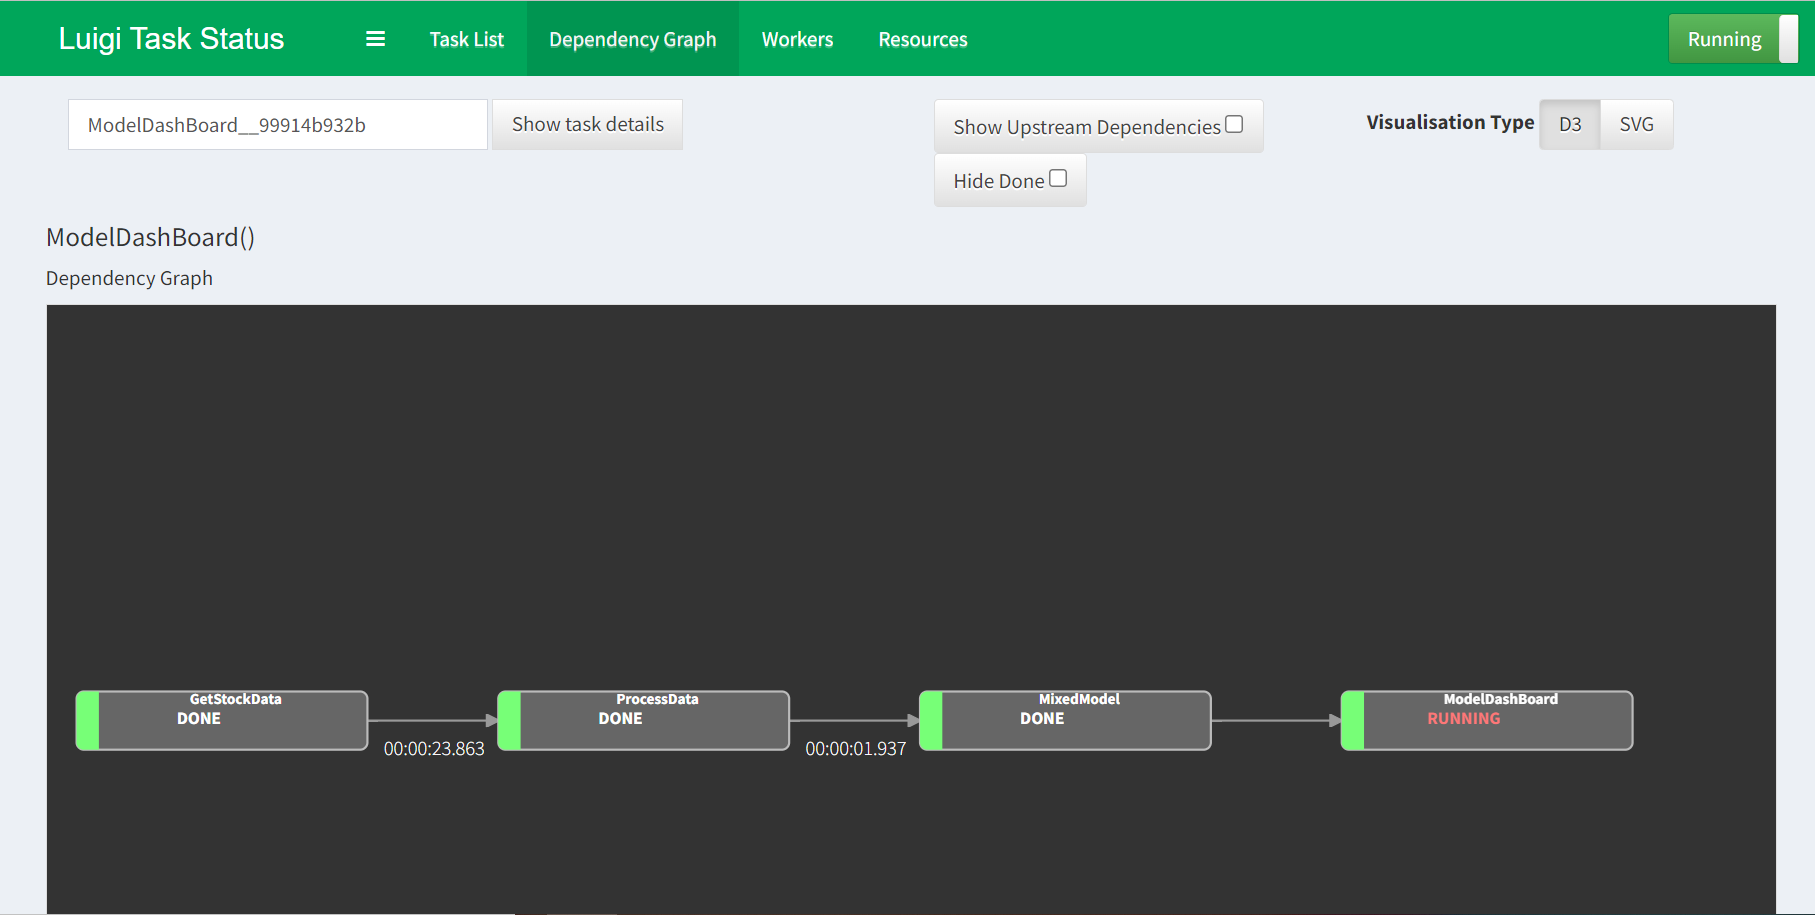
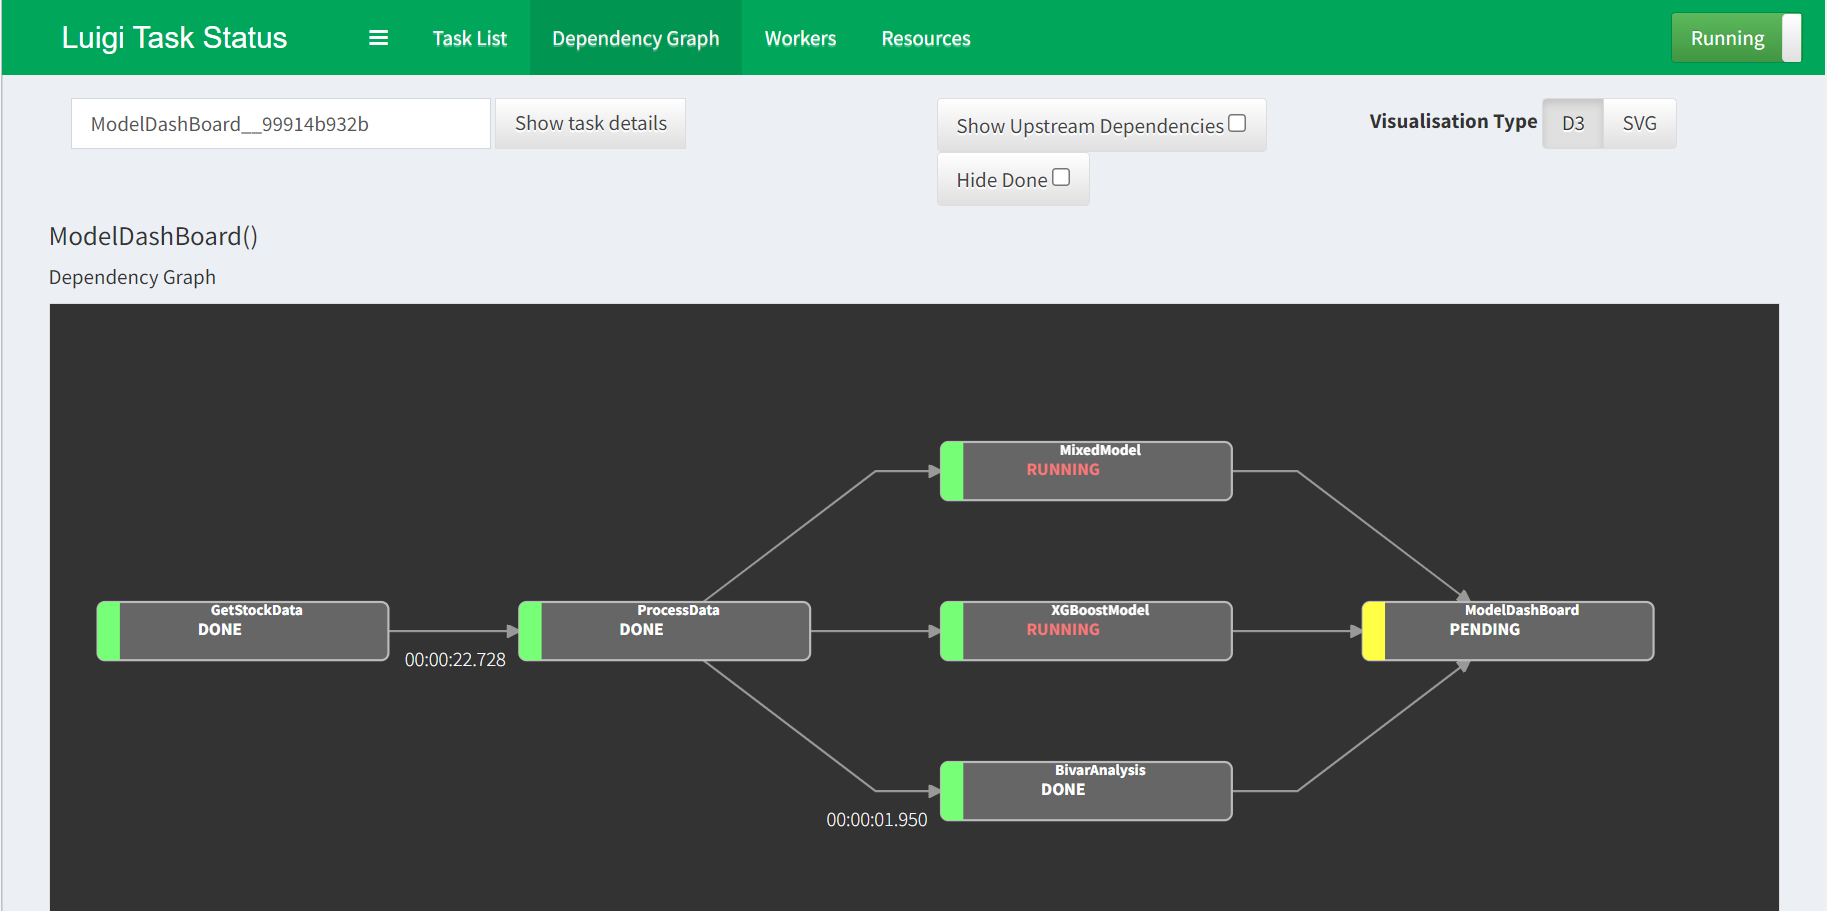
update

diff --git a/model_building/stock_xgboost.py b/model_building/stock_xgboost.py
@@ -17,133 +17,124 @@ from datetime import datetime
 import xgboost as xgb
 from sklearn.model_selection import RandomizedSearchCV
 from sklearn.inspection import plot_partial_dependence
-from os import (getcwd,chdir)
-
-basic_folder = getcwd()
-basic_folder = basic_folder.split("\\")
-basic_folder = "/".join(basic_folder[:3]+['OneDrive','stock_analysis'])
-chdir(basic_folder)
-
-stocks_df = pd.read_csv("data/stock_price.csv")
-
-one_hot = pd.get_dummies(stocks_df[['MACD_ind', "RSI_ind", 'mfi_ind', "symbol"]], 
-                         drop_first=True)
-stocks_df = stocks_df.join(one_hot)
-
-stocks_df["datetime"] = pd.to_datetime(stocks_df['datetime']).dt.date
-
-df_train = stocks_df[(stocks_df['datetime'] < 
-                      datetime.strptime('2021-3-31', "%Y-%m-%d").date())]
-df_val = stocks_df[(stocks_df['datetime'] >= 
-                    datetime.strptime('2021-3-31', "%Y-%m-%d").date())]
-
-df_train.shape
-# #### XGBoost
-# - One hot encode
-# - Split to train and validation, then go to XGBoost matrix
-# - Output the variable importance
-# - Plot partial dependence
-# - SHAP
-
-features = ['ma13', 'ma60', 'ma200', 'RSI', 'MACD', 'MACD_ewm9', 'MACD_diff', 
-            'average_13_60_down', 
-            "MACD_ind_MACD_2", "MACD_ind_MACD_3", "MACD_ind_MACD_4", 
-            "RSI_ind_RSI_2", "RSI_ind_RSI_3", "RSI_ind_RSI_4", 
-            'ad','SAR_diff', 'mfi', 'upperband','lowerband', 'ma13_diff_ratio', 
-            'ma60_diff_ratio', 'ma200_diff_ratio','B_upper_band_diff',
-            'B_lower_band_diff'] #
-
-[ x for x in features if x not in df_train.columns]
-
-df_train = df_train.dropna(subset = ['price_change_forward_ratio'] + features )
-df_val = df_val.dropna(subset = ['price_change_forward_ratio'] + features )
-
-print(df_train.shape)
-df_val.shape
-
-X_train = np.array(df_train[features])
-y_train = np.array(df_train['price_change_forward_ratio'])
-
-X_val = np.array(df_val[features])
-y_val = np.array(df_val['price_change_forward_ratio'])
-
-parameters = {'objective':['reg:squarederror'],
-              'booster':['gbtree'], # don't need gblinear, it needs other param
-              # general parameters
-              'learning_rate': [0.05,0.2], 
-              "reg_alpha"   : [0.2,2],
-              "reg_lambda"  : [1,3],
-              'n_estimators': [50, 200],
-              # Tree parameters
-              'max_depth': [3,7],
-              'min_child_weight': [10,20],
-              # sampling
-              'subsample': [0.8],
-              'colsample_bytree': [0.7, 0.9],
-              # "gamma"       : [0, 0.2]
-              }
-
-# Use sklearn wrapper
-xgbr = xgb.XGBRegressor(random_state=30,  verbosity =1)
-
-grid_obj_xgb = RandomizedSearchCV(xgbr, parameters, cv=3,n_iter= 10,
-                                  scoring='neg_mean_squared_error',verbose=2, 
-                                  random_state=10,n_jobs=4)
-
-grid_obj_xgb.fit(X_train, y_train,verbose = 1)
-
-
-best_random = grid_obj_xgb.best_estimator_
-
-# In[Evaluate the prediction]
-val_pred = best_random.predict(X_val)
-tra_pred = best_random.predict(X_train)
-
-val_predict = pd.DataFrame({'prediction':val_pred})
-val_predict = pd.concat([df_val[['datetime', 
-                                 'price_change_forward_ratio']].reset_index(drop=True),
-                               val_predict], axis = 1)
-
-tra_predict = pd.DataFrame({'prediction':tra_pred})
-tra_predict = pd.concat([df_train[['datetime', 
-                                   'price_change_forward_ratio']].reset_index(drop=True), 
-                               tra_predict], axis = 1)
-
-val_predict.to_csv("data/xgboost_val_pred.csv", index=False)
-tra_predict.to_csv("data/xgboost_tra_pred.csv", index=False)
-
-
-# In[plot build in feature importance]
-# best_random.__dir__()
-# plot with sort
-sorted_idx = best_random.feature_importances_.argsort()
-plt.barh(np.array(features)[sorted_idx], best_random.feature_importances_[sorted_idx])
-plt.xlabel("Xgboost Feature Importance")
-
-# In[Use SHAP]
-# use SHAP as feature importance
 import shap
-explainer = shap.TreeExplainer(best_random)
-shap_values = explainer.shap_values(X_train)
-
-# variable importace bar
-shap.summary_plot(shap_values, df_train[features], plot_type="bar")
-
-# SHAP value bar
-shap.summary_plot(shap_values, df_train[features])
-
-# Dependence plot from SHAP
-shap.dependence_plot("RSI", shap_values,df_train[features])
 
 
-# In[Remodel with best parameters]
-# Check with partial dependence
-xgb.XGBRegressor(parameters = grid_obj_xgb.best_params_)
-xgb_model = xgbr.fit(X_train, y_train,eval_set=[(X_train, y_train), (X_val, y_val)])
+class XGBoostStock():
+    def xgboost_stock(self, input_data_file):
+        stocks_df = pd.read_csv(input_data_file)
 
-fig, ax = plt.subplots(figsize=(40, 20))
-plot_partial_dependence(xgb_model, df_train[features], features, ax=ax,
-                        grid_resolution=50, n_cols=6) 
+        one_hot = pd.get_dummies(stocks_df[['MACD_ind', "RSI_ind", 'mfi_ind', "symbol"]], 
+                                 drop_first=True)
+        stocks_df = stocks_df.join(one_hot)
+        
+        stocks_df["datetime"] = pd.to_datetime(stocks_df['datetime']).dt.date
+        
+        df_train = stocks_df[(stocks_df['datetime'] < 
+                              datetime.strptime('2021-3-31', "%Y-%m-%d").date())]
+        df_val = stocks_df[(stocks_df['datetime'] >= 
+                            datetime.strptime('2021-3-31', "%Y-%m-%d").date())]
+        
+        # #### XGBoost
+        # - One hot encode
+        # - Split to train and validation, then go to XGBoost matrix
+        # - Output the variable importance
+        # - Plot partial dependence
+        # - SHAP
+        
+        features = ['ma13', 'ma60', 'ma200', 'RSI', 'MACD', 'MACD_ewm9', 'MACD_diff', 
+                    'average_13_60_down', 
+                    "MACD_ind_MACD_2", "MACD_ind_MACD_3", "MACD_ind_MACD_4", 
+                    "RSI_ind_RSI_2", "RSI_ind_RSI_3", "RSI_ind_RSI_4", 
+                    'ad','SAR_diff', 'mfi', 'upperband','lowerband', 'ma13_diff_ratio', 
+                    'ma60_diff_ratio', 'ma200_diff_ratio','B_upper_band_diff',
+                    'B_lower_band_diff'] 
+                
+        df_train = df_train.dropna(subset = ['price_change_forward_ratio'] + features )
+        df_val = df_val.dropna(subset = ['price_change_forward_ratio'] + features )
+              
+        X_train = np.array(df_train[features])
+        y_train = np.array(df_train['price_change_forward_ratio'])
+        
+        X_val = np.array(df_val[features])
+        y_val = np.array(df_val['price_change_forward_ratio'])
+        
+        parameters = {'objective':['reg:squarederror'],
+                      'booster':['gbtree'], 
+                      # general parameters
+                      'learning_rate': [0.05,0.2], 
+                      "reg_alpha"   : [0.2,2],
+                      "reg_lambda"  : [1,3],
+                      'n_estimators': [50, 200],
+                      # Tree parameters
+                      'max_depth': [3,7],
+                      'min_child_weight': [10,20],
+                      # sampling
+                      'subsample': [0.8],
+                      'colsample_bytree': [0.7, 0.9],
+                      # "gamma"       : [0, 0.2]
+                      }
+        
+        # Use sklearn wrapper
+        xgbr = xgb.XGBRegressor(random_state=30,  verbosity =1)
+        
+        grid_obj_xgb = RandomizedSearchCV(xgbr, parameters, cv=3,n_iter= 10,
+                                          scoring='neg_mean_squared_error',verbose=2, 
+                                          random_state=10,n_jobs=4)
+        
+        grid_obj_xgb.fit(X_train, y_train,verbose = 1)
+        
+        
+        best_random = grid_obj_xgb.best_estimator_
+        
+        # In[Evaluate the prediction]
+        val_pred = best_random.predict(X_val)
+        tra_pred = best_random.predict(X_train)
+        
+        val_predict = pd.DataFrame({'prediction':val_pred})
+        val_predict = pd.concat([df_val[['datetime', 
+                                         'price_change_forward_ratio']].reset_index(drop=True),
+                                       val_predict], axis = 1)
+        
+        tra_predict = pd.DataFrame({'prediction':tra_pred})
+        tra_predict = pd.concat([df_train[['datetime', 
+                                           'price_change_forward_ratio']].reset_index(drop=True), 
+                                       tra_predict], axis = 1)
+        
+        val_predict.to_csv("data/xgboost_val_pred.csv", index=False)
+        tra_predict.to_csv("data/xgboost_tra_pred.csv", index=False)
+        
+        
+        # In[plot build in feature importance]
+        # best_random.__dir__()
+        # plot with sort
+        sorted_idx = best_random.feature_importances_.argsort()
+        plt.barh(np.array(features)[sorted_idx], best_random.feature_importances_[sorted_idx])
+        plt.xlabel("Xgboost Feature Importance")
+        
+        # In[Use SHAP]
+        # use SHAP as feature importance
+        explainer = shap.TreeExplainer(best_random)
+        shap_values = explainer.shap_values(X_train)
+        
+        # variable importace bar
+        shap.summary_plot(shap_values, df_train[features], plot_type="bar")
+        
+        # SHAP value bar
+        shap.summary_plot(shap_values, df_train[features])
+        
+        # Dependence plot from SHAP
+        shap.dependence_plot("RSI", shap_values,df_train[features])
+        
+        
+        # In[Remodel with best parameters]
+        # Check with partial dependence
+        xgb.XGBRegressor(parameters = grid_obj_xgb.best_params_)
+        xgb_model = xgbr.fit(X_train, y_train,eval_set=[(X_train, y_train), (X_val, y_val)])
+        
+        fig, ax = plt.subplots(figsize=(40, 20))
+        plot_partial_dependence(xgb_model, df_train[features], features, ax=ax,
+                                grid_resolution=50, n_cols=6) 
 
 
 

diff --git a/stock_analysis_pipeline.py b/stock_analysis_pipeline.py
@@ -12,6 +12,7 @@ from data_processing.get_TD_data import ExtractTD
 from EDA.stock_bivar_analysis import StockBivariateAnalysis
 from Dash.dashboard import StockDashBoard
 from model_building.mixed_LM import MixedLM
+from model_building.stock_xgboost import XGBoostStock
 from model_evaluation.evaluate_model import ModelEvaluation
 
 class GetStockData(luigi.Task):   
@@ -35,6 +36,7 @@ class GetStockData(luigi.Task):
 class ProcessData(luigi.Task):
     def requires(self):
         return GetStockData()
+        # return None
     
     def output(self):
         return luigi.LocalTarget("log/ProcessData_%s.txt" 
@@ -81,6 +83,22 @@ class DataDashBoard(luigi.Task):
         with self.output().open('w') as out_file:
             out_file.write('Complete')
 
+class XGBoostModel(luigi.Task):
+    def requires(self):
+        return ProcessData()
+    
+    def output(self):
+        return luigi.LocalTarget('log/XGBoostModel_%s.txt' 
+                                 % datetime.now().strftime("%Y_%m_%d_%H_%M"))
+    
+    def run(self):
+        task = XGBoostStock()
+        task.xgboost_stock(input_data_file = 'data/stock_price.csv')
+        
+        with self.output().open('w') as out_file:
+            out_file.write('Complete')
+                                 
+
 class MixedModel(luigi.Task):
     def requires(self):
         return ProcessData()
@@ -98,7 +116,7 @@ class MixedModel(luigi.Task):
 
 class ModelDashBoard(luigi.Task):
     def requires(self):
-        return MixedModel()
+        return [MixedModel(), XGBoostModel(), BivarAnalysis()]
     
     def output(self):
         return luigi.LocalTarget('log/ModelDashBoard_%s.txt' 
@@ -113,7 +131,6 @@ class ModelDashBoard(luigi.Task):
             out_file.write('Complete')
 
 if __name__ == '__main__':
-    luigi.build([GetStockData(), BivarAnalysis(), 
-                 DataDashBoard(), ModelDashBoard()],
+    luigi.build([DataDashBoard(), ModelDashBoard()],
                 workers=4) # 
     # luigi.run()
